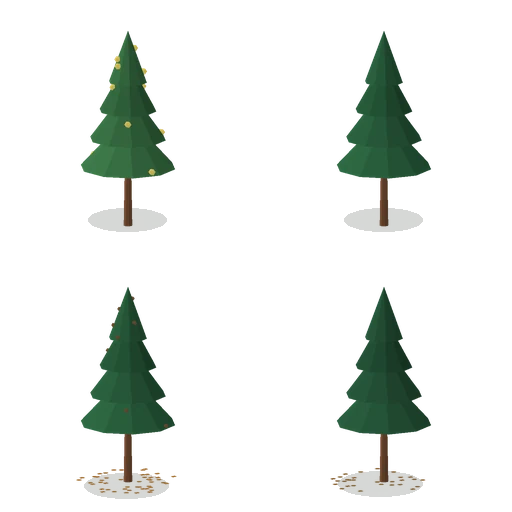
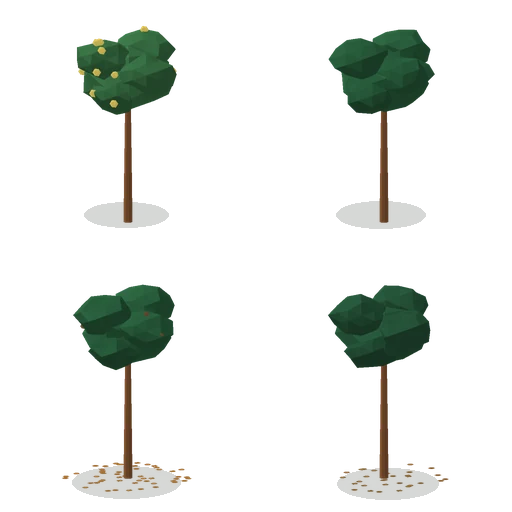
Fixe pine render

diff --git a/tests/test_render_previews.py b/tests/test_render_previews.py
@@ -331,6 +331,37 @@ def test_fish_pictures():
     assert wide.any(axis=1).sum() > narrow.any(axis=1).sum()  # long fins reach out
 
 
+def test_columnar_tree_is_a_column_down_to_the_ground():
+    yew = TREE | {
+        "shape": "columnar",
+        "latin": "Taxus baccata",
+        "evergreen": True,
+        "height": {"default": 6, "min": 1.5, "max": 15},
+        "crown_radius": 0.9,
+        "trunk": {"height": 0.4, "radius": 0.25, "color": "#6e4a3a"},
+        "seasons": {"summer": {"foliage": "#1f4a2c"}},
+    }
+    solids = rp._crown(yew, 1)
+    assert len(solids) == len(rp._COLUMN_TIERS)
+    assert {kind for kind, *_ in solids} == {
+        "blob"
+    }  # a column of foliage, not a stack of cones
+    width = [sizes[0] for _, _, sizes in solids]
+    assert max(width) == pytest.approx(yew["crown_radius"])
+    assert width[0] > 0.8 * max(width)  # as wide at the foot as in the middle
+    assert width[-1] < 0.4 * max(width)  # narrowing only at the top
+    # the foliage comes down under the top of the trunk, which hardly shows
+    assert (
+        min(centre[1] - sizes[1] for _, centre, sizes in solids)
+        < yew["trunk"]["height"]
+    )
+
+    low, high = extent(rp.tree_mesh(yew, "summer").arrays()[0])
+    assert low[1] == pytest.approx(0, abs=0.01)
+    assert high[1] == pytest.approx(yew["height"]["default"], rel=0.05)
+    assert high[0] == pytest.approx(yew["crown_radius"], rel=0.1)
+
+
 def test_weeping_tree_hangs_curtains_to_the_trunk():
     willow = TREE | {
         "shape": "weeping",

diff --git a/scripts/render_previews.py b/scripts/render_previews.py
@@ -246,6 +246,18 @@ _CLUMPS = (
 #: Tiers of a conical crown
 _TIERS = 4
 
+#: Tiers of a columnar crown: [height of the centre, width, height of the blob], as shares of the span the
+#: foliage covers. Barely narrower at the foot than at the middle, rounded off at the top (yew, cypress).
+_COLUMN_TIERS = (
+    (0.13, 0.86, 0.13),
+    (0.28, 1.0, 0.17),
+    (0.46, 1.0, 0.17),
+    (0.63, 0.95, 0.16),
+    (0.77, 0.82, 0.14),
+    (0.88, 0.6, 0.11),
+    (0.94, 0.3, 0.06),
+)
+
 
 #: Curtains of branches hanging from a weeping crown
 _CURTAINS = 10
@@ -359,6 +371,19 @@ def _crown(data: dict[str, Any], density: float) -> list[tuple[Any, ...]]:
         return _weeping(top, radius, bottom, thin)
     if data["shape"] == "palm":
         return _palm(top, radius, bottom, thin)
+    if data["shape"] == "columnar":
+        # the foliage of a column comes down almost to the ground, the trunk hardly showing
+        foot = min(bottom * 0.4, top * 0.06)
+        span = top - foot
+        for height, width, size in _COLUMN_TIERS:
+            solids.append(
+                (
+                    "blob",
+                    (0.0, foot + span * height, 0.0),
+                    (radius * width * thin, span * size * thin, radius * width * thin),
+                )
+            )
+        return solids
     if data["shape"] == "round":
         reach = max(abs(c[axis]) + c[3] for c in _CLUMPS for axis in range(3))
         for x, y, z, size in _CLUMPS:

diff --git a/README.md b/README.md
@@ -73,9 +73,11 @@ so an entry is never renamed, only removed.
 ```
 
 - `shape`: `round` (a crown of leafy clumps: oak, birch, fruit trees, a
-  shrub), `conical` (stacked cones: pine, fir, yew) or `weeping` (a low dome
-  with curtains of branches hanging from it: weeping willow) or `palm` (a bare
-  trunk and a tuft of fronds: date palm, coconut palm).
+  shrub), `conical` (stacked cones, tapering all the way down: spruce, fir),
+  `columnar` (a column of foliage down to the ground, rounded off at the top:
+  yew, cypress, thuja), `weeping` (a low dome with curtains of branches hanging
+  from it: weeping willow) or `palm` (a bare trunk and a tuft of fronds: date
+  palm, coconut palm).
 - Sizes are in metres, for a tree of the default `height`; the card scales
   the whole tree to the height chosen when it is placed, within `min` and `max`.
 - `seasons`: up to four renderings. `summer` is mandatory; a missing season is
@@ -152,26 +154,27 @@ drawing of your own may replace them.
 <!-- Generated by scripts/readme_catalog.py: do not edit by hand -->
 
 <details>
-<summary><b>Trees</b> (16)</summary>
+<summary><b>Trees</b> (17)</summary>
 
 |  | Tree | Botanical name | Shape | Foliage | Height | Seasons |
 |---|---|---|---|---|---|---|
-| <img src="trees/items/apple-tree/thumb.webp" width="48" alt=""> | Apple tree<br>`apple-tree` | <i>Malus domestica</i> | round | deciduous | 5 m (2.5-9) | 4 seasons |
-| <img src="trees/items/apricot-tree/thumb.webp" width="48" alt=""> | Apricot tree<br>`apricot-tree` | <i>Prunus armeniaca</i> | round | deciduous | 4.5 m (2-8) | 4 seasons |
-| <img src="trees/items/canary-palm/thumb.webp" width="48" alt=""> | Canary Island date palm<br>`canary-palm` | <i>Phoenix canariensis</i> | palm | evergreen | 9 m (3-20) | 4 seasons |
-| <img src="trees/items/cherry-tree/thumb.webp" width="48" alt=""> | Cherry tree<br>`cherry-tree` | <i>Prunus avium</i> | round | deciduous | 7 m (3-15) | 4 seasons |
-| <img src="trees/items/coconut-palm/thumb.webp" width="48" alt=""> | Coconut palm<br>`coconut-palm` | <i>Cocos nucifera</i> | palm | evergreen | 13 m (4-28) | 4 seasons |
-| <img src="trees/items/date-palm/thumb.webp" width="48" alt=""> | Date palm<br>`date-palm` | <i>Phoenix dactylifera</i> | palm | evergreen | 12 m (4-25) | 4 seasons |
-| <img src="trees/items/elder/thumb.webp" width="48" alt=""> | Black elder<br>`elder` | <i>Sambucus nigra</i> | round | deciduous | 4 m (2-7) | 4 seasons |
-| <img src="trees/items/eucalyptus/thumb.webp" width="48" alt=""> | Eucalyptus<br>`eucalyptus` | <i>Eucalyptus globulus</i> | round | evergreen | 14 m (6-30) | summer |
-| <img src="trees/items/japanese-cherry/thumb.webp" width="48" alt=""> | Japanese flowering cherry<br>`japanese-cherry` | <i>Prunus serrulata</i> | round | deciduous | 6 m (3-10) | 4 seasons |
-| <img src="trees/items/norway-spruce/thumb.webp" width="48" alt=""> | Norway spruce<br>`norway-spruce` | <i>Picea abies</i> | conical | evergreen | 14 m (4-35) | 4 seasons |
-| <img src="trees/items/oak/thumb.webp" width="48" alt=""> | Oak<br>`oak` | <i>Quercus robur</i> | round | deciduous | 9 m (4-25) | 4 seasons |
-| <img src="trees/items/pear-tree/thumb.webp" width="48" alt=""> | Pear tree<br>`pear-tree` | <i>Pyrus communis</i> | round | deciduous | 6 m (3-12) | 4 seasons |
-| <img src="trees/items/pine/thumb.webp" width="48" alt=""> | Pine<br>`pine` | <i>Pinus sylvestris</i> | conical | evergreen | 10 m (3-25) | 4 seasons |
-| <img src="trees/items/silver-fir/thumb.webp" width="48" alt=""> | Silver fir<br>`silver-fir` | <i>Abies alba</i> | conical | evergreen | 16 m (4-40) | 4 seasons |
-| <img src="trees/items/weeping-willow/thumb.webp" width="48" alt=""> | Weeping willow<br>`weeping-willow` | <i>Salix babylonica</i> | weeping | deciduous | 10 m (5-18) | 4 seasons |
-| <img src="trees/items/yew/thumb.webp" width="48" alt=""> | Yew<br>`yew` | <i>Taxus baccata</i> | conical | evergreen | 6 m (1.5-15) | 4 seasons |
+|  | Apple tree<br>`apple-tree` | <i>Malus domestica</i> | round | deciduous | 5 m (2.5-9) | 4 seasons |
+|  | Apricot tree<br>`apricot-tree` | <i>Prunus armeniaca</i> | round | deciduous | 4.5 m (2-8) | 4 seasons |
+|  | Canary Island date palm<br>`canary-palm` | <i>Phoenix canariensis</i> | palm | evergreen | 9 m (3-20) | 4 seasons |
+|  | Cherry tree<br>`cherry-tree` | <i>Prunus avium</i> | round | deciduous | 7 m (3-15) | 4 seasons |
+|  | Coconut palm<br>`coconut-palm` | <i>Cocos nucifera</i> | palm | evergreen | 13 m (4-28) | 4 seasons |
+|  | Date palm<br>`date-palm` | <i>Phoenix dactylifera</i> | palm | evergreen | 12 m (4-25) | 4 seasons |
+|  | Black elder<br>`elder` | <i>Sambucus nigra</i> | round | deciduous | 4 m (2-7) | 4 seasons |
+|  | Eucalyptus<br>`eucalyptus` | <i>Eucalyptus globulus</i> | round | evergreen | 14 m (6-30) | summer |
+|  | Japanese flowering cherry<br>`japanese-cherry` | <i>Prunus serrulata</i> | round | deciduous | 6 m (3-10) | 4 seasons |
+|  | Norway spruce<br>`norway-spruce` | <i>Picea abies</i> | conical | evergreen | 14 m (4-35) | 4 seasons |
+|  | Oak<br>`oak` | <i>Quercus robur</i> | round | deciduous | 9 m (4-25) | 4 seasons |
+|  | Pear tree<br>`pear-tree` | <i>Pyrus communis</i> | round | deciduous | 6 m (3-12) | 4 seasons |
+| <img src="trees/items/pine/thumb.webp" width="48" alt=""> | Scots pine<br>`pine` | <i>Pinus sylvestris</i> | round | evergreen | 10 m (3-25) | 4 seasons |
+|  | Silver fir<br>`silver-fir` | <i>Abies alba</i> | conical | evergreen | 16 m (4-40) | 4 seasons |
+| <img src="trees/items/stone-pine/thumb.webp" width="48" alt=""> | Stone pine<br>`stone-pine` | <i>Pinus pinea</i> | round | evergreen | 12 m (4-25) | 4 seasons |
+|  | Weeping willow<br>`weeping-willow` | <i>Salix babylonica</i> | weeping | deciduous | 10 m (5-18) | 4 seasons |
+| <img src="trees/items/yew/thumb.webp" width="48" alt=""> | Yew<br>`yew` | <i>Taxus baccata</i> | columnar | evergreen | 6 m (1.5-15) | 4 seasons |
 
 </details>
 
@@ -180,7 +183,7 @@ drawing of your own may replace them.
 
 |  | Id | Object | Category | Width x depth x height | Parts |
 |---|---|---|---|---|---|
-| <img src="objects/items/chair/thumb.webp" width="48" alt=""> | `chair` | Chair | seating | 0.42 x 0.42 x 0.9 m | 7 |
+|  | `chair` | Chair | seating | 0.42 x 0.42 x 0.9 m | 7 |
 
 </details>
 
@@ -189,7 +192,7 @@ drawing of your own may replace them.
 
 |  | Id | Fish | Scientific name | Length | Varieties |
 |---|---|---|---|---|---|
-| <img src="pond_fish/items/koi/thumb.webp" width="48" alt=""> | `koi` | Koi carp | <i>Cyprinus rubrofuscus</i> | 0.5 m (0.15-0.9) | kohaku, sanke, showa, tancho, benigoi, yamabuki-ogon, platinum-ogon, kigoi, chagoi, asagi, karasugoi |
+|  | `koi` | Koi carp | <i>Cyprinus rubrofuscus</i> | 0.5 m (0.15-0.9) | kohaku, sanke, showa, tancho, benigoi, yamabuki-ogon, platinum-ogon, kigoi, chagoi, asagi, karasugoi |
 
 </details>
 

diff --git a/doc/format.md b/doc/format.md
@@ -28,7 +28,11 @@ placing a tree of another height scales the whole tree by
   `crown_radius` wide on every side.
   - `round`: leafy clumps (rough ellipsoids) filling that box.
   - `conical`: stacked cones, the widest at the bottom (`crown_radius`), the
-    last one ending at the top.
+    last one ending at the top. Tapers all the way down (spruce, fir).
+  - `columnar`: a column of leafy clumps, as wide near the foot as in the
+    middle (`crown_radius`) and narrowing only over the last fifth, where it is
+    rounded off. The foliage comes down almost to the ground, so the trunk
+    hardly shows (yew, cypress, thuja, Italian poplar).
   - `weeping`: a low dome in the upper part of the box, and ten curtains of
     branches hanging from its rim (0.85 of `crown_radius`) down to the trunk,
     some longer than others (weeping willow). Thinner foliage shortens the
